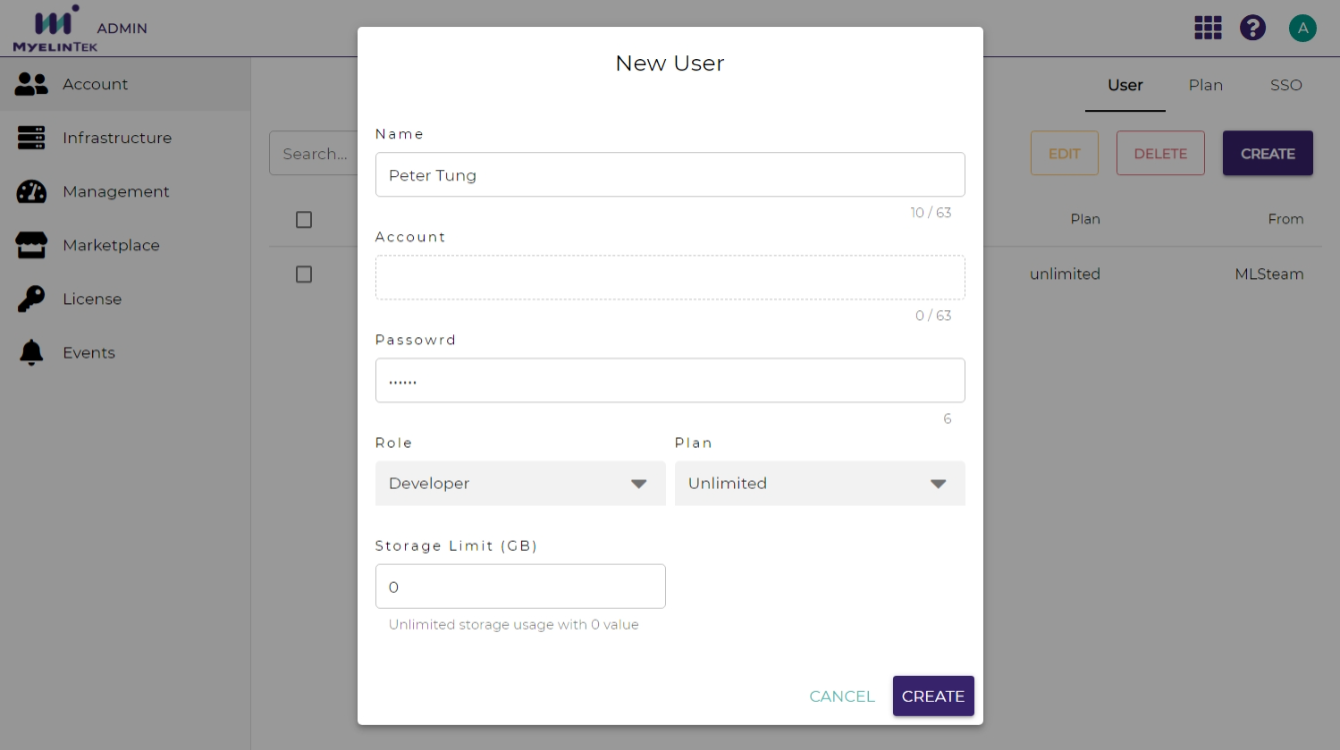
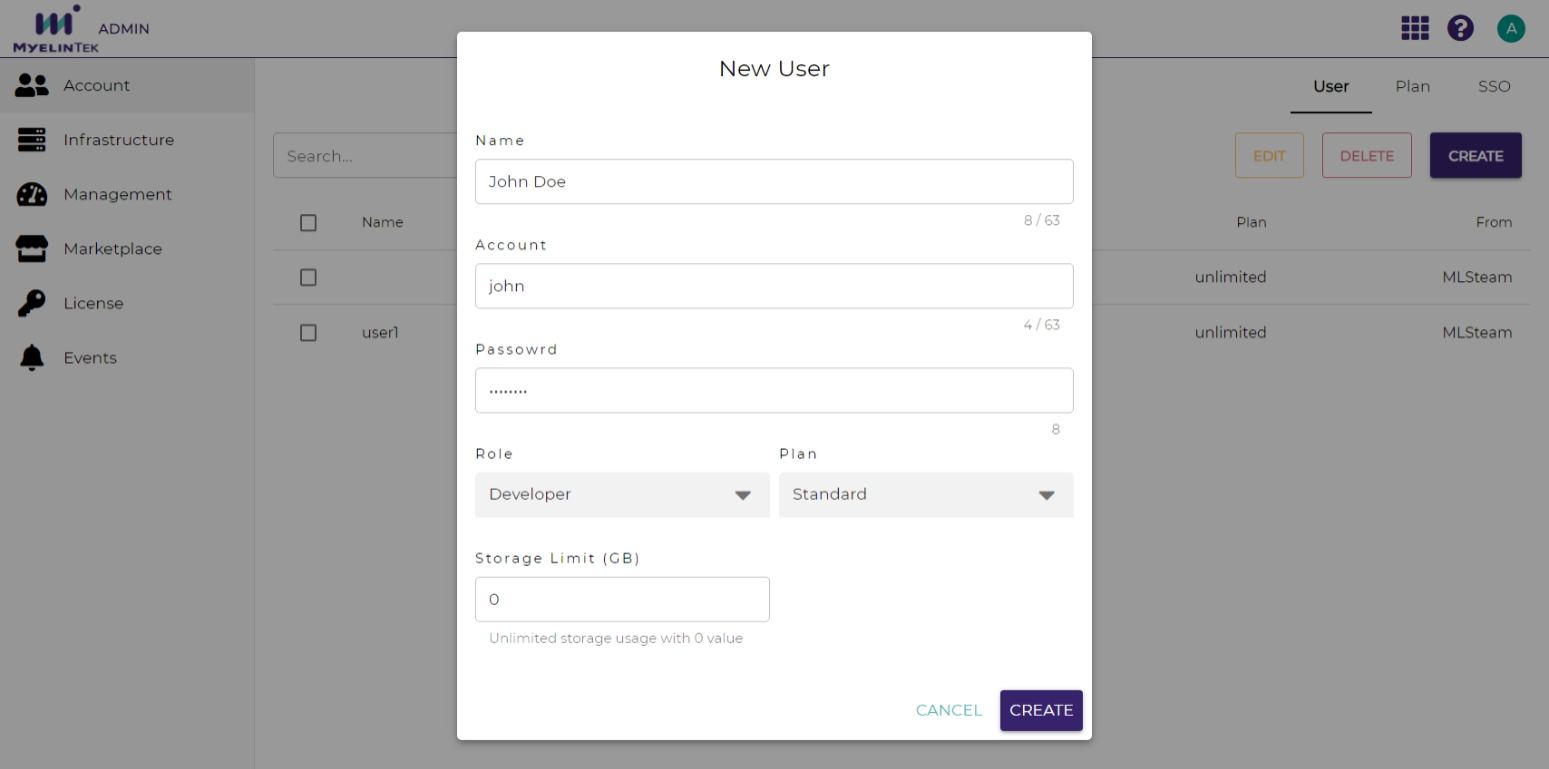
Update the account page

diff --git a/administration/account.rst b/administration/account.rst
@@ -8,9 +8,9 @@ Create and Manage a User
 #) Click on the *CREATE* button.
 #) Fill in the user settings:
 
-    * Name: the displayed name
-    * Account: the login account name
-    * Password: the login password
+    * Name: displayed name
+    * Account: login account name
+    * Password: login password
     * Role: could be `Admin` (system maintainer) or `Developer` (deep learning developer)
     * Plan: resource limitation plan
 
@@ -27,13 +27,19 @@ Create and Manage a User
     .. image:: /_static/imgs/administration/account/add_user_1.png
         :width: 600
 
-    FIXME: update image
-
 Set Plan for Resource Limitation
 ~~~~~~~~~~~~~~~~~~~~~~~~~~~~~~~~
 
 Delete a User
 -------------
+
+To delete a user:
+
+#) Select the user to delete.
+#) Click on the *DELETE* button.
+
+.. warning::
+    Deleting a user will also remove its access to all projects.
 
 Integrate LDAP/AD
 -----------------
